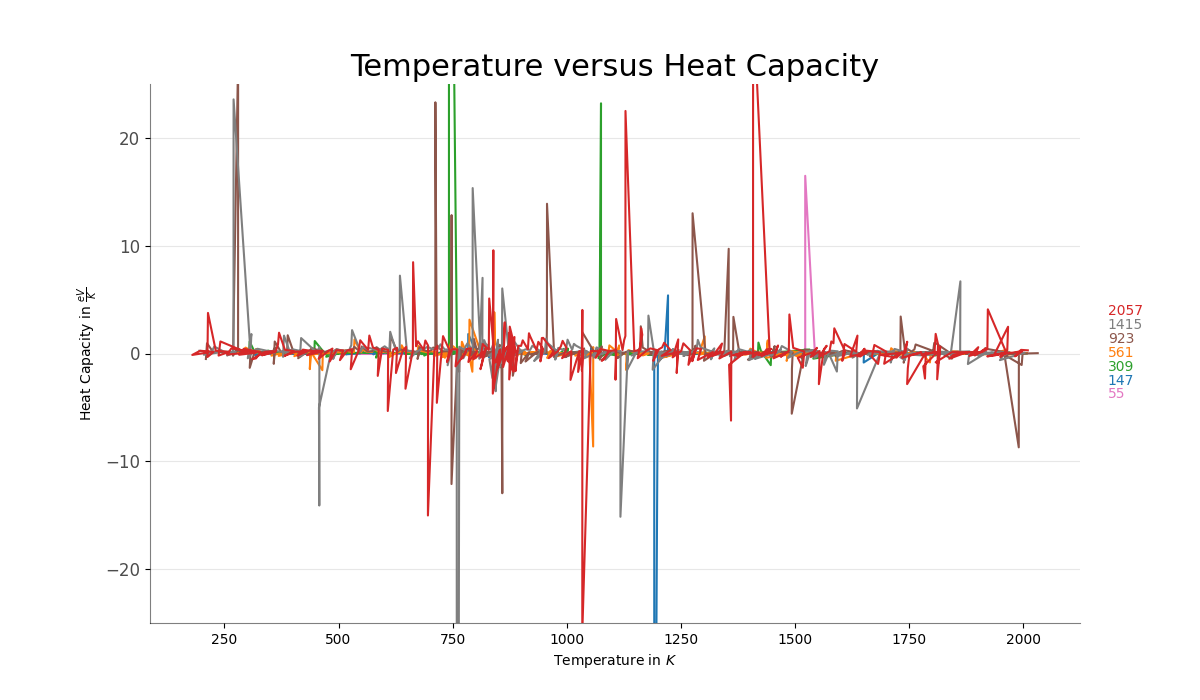
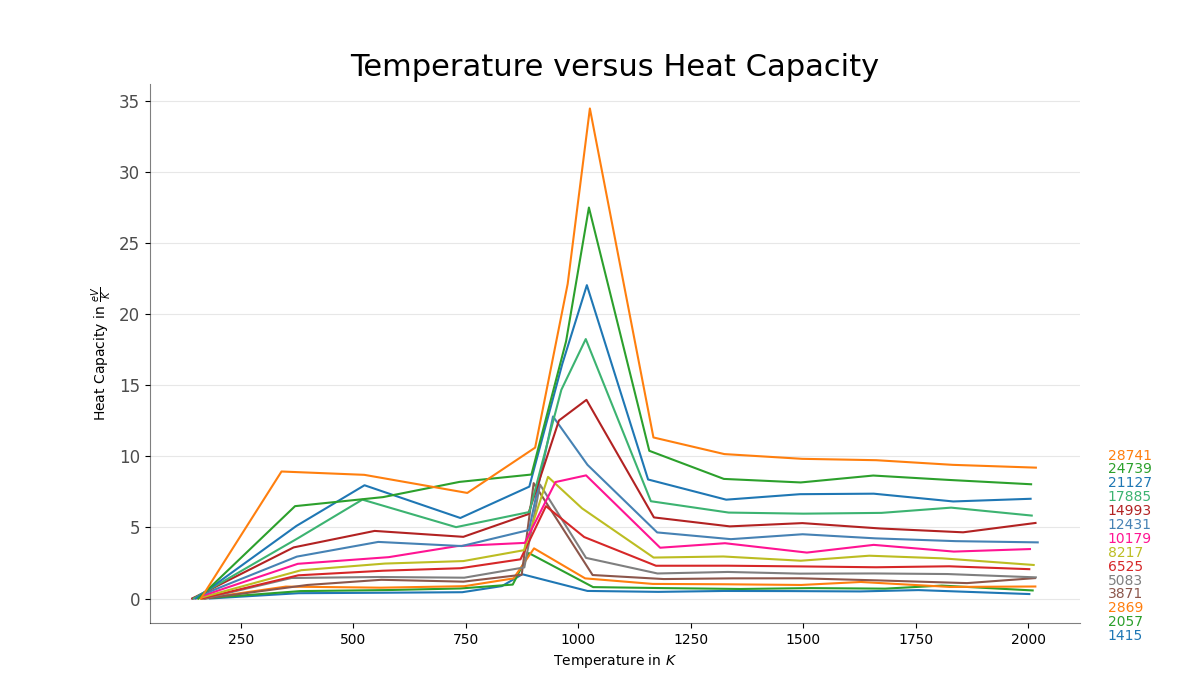
added heat capacity plot

diff --git a/milestones/09/main.cpp b/milestones/09/main.cpp
@@ -29,7 +29,7 @@ void simulate(std::string whisker_name) {
     Atoms atoms = Atoms(Names_t(names), Positions_t(positions));
     std::cout << "num atoms: " << atoms.nb_atoms() << "\n";
 
-    double energy_injection = 0.1; // Unit: eV
+    double energy_injection = 0.0; // Unit: eV
     double mass_gold = 196.97;
     double mass_unit_factor = 103.6;
     double mass = mass_gold * mass_unit_factor;  // unit: g/mol
@@ -42,21 +42,20 @@ void simulate(std::string whisker_name) {
     double whisker_x = atoms.positions.row(0).maxCoeff();
     double whisker_y = atoms.positions.row(1).maxCoeff();
     double whisker_z = atoms.positions.row(2).maxCoeff();
-    double rim = 22;
+    std::cout << "Whisker dimensions: " << whisker_x << ", " << whisker_y << ", " << whisker_z << "\n";
+    double current_z = whisker_z;
+    double z_increment = 5;
+    double rim = 5;
     Domain domain{MPI_COMM_WORLD,
-                  {whisker_x + rim, whisker_y + rim, whisker_z + rim},
+                  {whisker_x + rim, whisker_y + rim, current_z},
                   {1, 1, 1},
                   {1, 1, 1}};
-
-    // Shift positions of atoms, as the center of the read cluster is 0,0,0
-    // atoms.positions += (diameter + rim) / 2;
+    if (rank == 0) std::cout << "Setting domain size to " << whisker_x + rim << ", " << whisker_y + rim << ", " << current_z << "\n";
 
     // Neighbors
     double neighbors_cutoff = 10;
     NeighborList neighbors_list{neighbors_cutoff};
-    std::cout << "init neighbours\n=============================================\n";
     neighbors_list.update(atoms);
-    std::cout << "after neighbours\n=============================================\n";
 
     // Temperature fitter
     double wait_after_energy_injection = 200 * timestep;  // 100fs for timestep 0.5fs
@@ -70,22 +69,31 @@ void simulate(std::string whisker_name) {
     double e_pot_total;
     double energy_total;
 
+    // Initialize IO
     std::ofstream traj;
     std::ofstream energy;
+
+    // Initialize forces
+    double e_pot_local = ducastelle_mp(atoms, neighbors_list, domain.nb_local(), neighbors_cutoff - 0.1);
+
+    // Make domain ready for main loop
+    domain.enable(atoms);
+    domain.scale(atoms, {whisker_x + rim, whisker_y + rim, current_z});
+    if (rank == 0) std::cout << "Scaling to " << whisker_x + rim << ", " << whisker_y + rim << ", " << current_z << "\n";
+    domain.update_ghosts(atoms, 2 * (neighbors_cutoff - 0.1));
+    neighbors_list.update(atoms);
+
+    /*
+    // Write initial state
+     domain.disable(atoms)
     if (rank == 0) {
         traj = std::ofstream(root + "milestones/09/ovito/traj_" + whisker_name + ".xyz");
         energy = std::ofstream(root + "milestones/09/ovito/energy_" + whisker_name + ".csv");
         write_xyz(traj, atoms);
     }
-
-    // Initialize forces
-    double e_pot_local = ducastelle_mp(atoms, neighbors_list, domain.nb_local(), neighbors_cutoff - 1);
-
-    // Make domain ready for main loop
-    domain.enable(atoms);
-
-    domain.update_ghosts(atoms, 2 * (neighbors_cutoff - 1));
+    domain.update_ghosts(atoms, 2 * (neighbors_cutoff - 0.1));
     neighbors_list.update(atoms);
+    */
 
     // Before the actual simulation, run the thermostat
     bool use_thermostat = true;
@@ -93,7 +101,7 @@ void simulate(std::string whisker_name) {
     double thermostat_relaxation_time = 500;
     double thermostat_total_time = 1000;
 
-    // Loop until the system is too hot or the time is up
+    // Main simulation loop
     while (current_time < max_total_time) {
         // Verlet step 1
         Acceleration_t acceleration = atoms.forces / mass;
@@ -101,11 +109,11 @@ void simulate(std::string whisker_name) {
 
         // Exchange information between domains
         domain.exchange_atoms(atoms);
-        domain.update_ghosts(atoms, 2 * (neighbors_cutoff - 1));
+        domain.update_ghosts(atoms, 2 * (neighbors_cutoff - 0.1));
 
         // Update forces
         neighbors_list.update(atoms);
-        e_pot_local = ducastelle_mp(atoms, neighbors_list, domain.nb_local(), neighbors_cutoff - 1);
+        e_pot_local = ducastelle_mp(atoms, neighbors_list, domain.nb_local(), neighbors_cutoff - 0.1);
 
         // Verlet step 2
         acceleration = atoms.forces / mass;
@@ -134,26 +142,28 @@ void simulate(std::string whisker_name) {
                 if (rank == 0) std::cout << "Disabling domains on timestep " << current_time << "/" << max_total_time << "\tAtoms: " << atoms.positions.cols() << "\n";
                 domain.disable(atoms);
                 if (rank == 0) std::cout << "total atoms: " << atoms.positions.cols() << "\n";
-                domain.scale(atoms, {1, 1, 5});
-                std::cout << "scaled domain z to 5\n";
 
                 // Calculate total system temperatures and energies
                 avg_temperature_local /= steps_for_average;
                 avg_temperature_total = MPI::allreduce(avg_temperature_local, MPI_SUM, MPI_COMM_WORLD);
                 e_pot_total = MPI::allreduce(e_pot_local, MPI_SUM, MPI_COMM_WORLD);
                 energy_total = e_pot_total + atoms.e_kin();
-                const double heat_capacity = energy_injection / (avg_temperature_total - last_avg_temperature_total);
 
                 // Write to files
                 if (rank == 0) {
                     write_xyz(traj, atoms);
-                    write_E_T_C(energy, energy_total, avg_temperature_total, heat_capacity);
+                    write_E_T(energy, energy_total, avg_temperature_total);
                     std::cout << current_time << "/" << max_total_time << "\tE_kin: " << atoms.e_kin() << "\tE_pot_total: " << e_pot_total << "\tEnergy: " << energy_total << "\tTotal added energy: " << added_energy_sum << "\tTemperature: " << avg_temperature_total << "\n";
                 }
 
                 // Increment energy
                 atoms.velocities *= std::sqrt(1 + energy_injection / atoms.e_kin());
                 added_energy_sum += energy_injection;
+
+                // Rescaling domains
+                current_z += z_increment;
+                domain.scale(atoms, {whisker_x + rim, whisker_y + rim, current_z});
+                if (rank == 0) std::cout << "Scaling to " << whisker_x + rim << ", " << whisker_y + rim << ", " << current_z << "\n";
 
                 // Reset variables and start domain separation
                 last_avg_temperature_total = avg_temperature_total;
@@ -162,7 +172,7 @@ void simulate(std::string whisker_name) {
                 measurement_time_currently = 0;
 
                 domain.enable(atoms);
-                domain.update_ghosts(atoms, 2 * (neighbors_cutoff - 1));
+                domain.update_ghosts(atoms, 2 * (neighbors_cutoff - 0.1));
                 neighbors_list.update(atoms);
             }
         }

diff --git a/milestones/07/ovito/plot_temperature_vs_heat_capacity.py b/milestones/07/ovito/plot_temperature_vs_heat_capacity.py
@@ -1,41 +1,52 @@
+import numpy as np
 import pandas as pd
 import matplotlib.pyplot as plt
 import matplotx
-import tikzplotlib
 
 # Prepare data
 labels = [r"$E_\mathrm{total}$", r"Temperature}"]
-headers = ["Etotal", "Temperature", "Heat Capacity"]
+headers = ["Etotal", "Temperature"]
+mycolors = ['tab:blue', 'tab:green', 'tab:orange',
+            'tab:brown', 'tab:grey', 'tab:red', 'tab:olive',
+            'deeppink', 'steelblue', 'firebrick', 'mediumseagreen']
 
 # Import Data
 # numbers = ["55"]
-numbers = ["55", "147", "309", "561", "923", "1415", "2057"]
+# numbers = ["55", "147", "309", "561", "923", "1415", "2057"]
 # numbers = ["2869", "3871", "5083", "6525", "8217", "10179", "12431", "14993", "17885", "21127", "24739", "28741"]
 # numbers = ["55", "147", "309", "561", "923", "1415", "2057", "2869", "3871",
 #            "5083", "6525", "8217", "10179", "12431", "14993", "17885",
 #            "21127", "24739", "28741"]
+numbers = ["1415", "2057", "2869", "3871",
+           "5083", "6525", "8217", "10179", "12431", "14993", "17885",
+           "21127", "24739", "28741"]
 
-dfs = [pd.read_csv('energy_' + num + '.csv', header=None, sep="\t") for num in numbers]
+dfs = [pd.read_csv('energy_' + num + '.csv', header=None, usecols=[0, 1], sep="\t") for num in numbers]
 for df in dfs:
     df.columns = headers
 
-# Set first element to 0
-for df in dfs:
-    df.iat[0, 2] = None
-
-# Draw Plot
-mycolors = ['tab:pink', 'tab:blue', 'tab:green', 'tab:orange',
-            'tab:brown', 'tab:grey', 'tab:red', 'tab:olive',
-            'deeppink', 'steelblue', 'firebrick', 'mediumseagreen']
-
-plt.figure(figsize=(12, 7), dpi=100)
-
+# Calculate Heat Capacities
+dfs_heat_capacities = []
 for i, df in enumerate(dfs):
-    plt.plot(df[headers[1]], df[headers[2]], "o", markersize=2, color=mycolors[i % len(mycolors)], label=numbers[i])
-    # plt.text(df[headers[2]].iloc[-1], max(df[headers[2]]) + 50, numbers[i], horizontalalignment='center', color=mycolors[i % len(mycolors)])
+    heat_capacities = []
+    total_energy_diff = max(df[headers[0]]) - min(df[headers[0]])
+    energy0, energy1 = 0, 0
+    temperature0, temperature1 = 0, 0
+
+    for p in np.linspace(0, len(df) - 1,  13, dtype=int):
+        energy1, temperature1 = df[headers[0]].iloc[p], df[headers[1]].iloc[p]
+        heat_capacity = (energy1 - energy0) / (temperature1 - temperature0)
+        heat_capacities.append((temperature1, heat_capacity))
+        energy0, temperature0 = energy1, temperature1
+    dfs_heat_capacities.append(heat_capacities)
+
+# Plot
+plt.figure(figsize=(12, 7), dpi=100)
+for i, df in enumerate(dfs):
+    t, hc = zip(*dfs_heat_capacities[i])
+    plt.plot(t, hc, color=mycolors[i % len(mycolors)], label=numbers[i])
 
 # Decoration
-plt.ylim(-25, 25)
 plt.xlabel(r'Temperature in $K$')
 plt.ylabel(r'Heat Capacity in $\frac{eV}{K}$')
 plt.yticks(fontsize=12, alpha=.7)
@@ -52,7 +63,6 @@ plt.gca().spines["right"].set_alpha(0.0)
 plt.gca().spines["left"].set_alpha(0.5)
 
 path = r"T_vs_C"
-# tikzplotlib.save(path + ".tex")
 plt.savefig(path + ".png")
 
 plt.show()  # clears the plot

diff --git a/milestones/07/main.cpp b/milestones/07/main.cpp
@@ -93,11 +93,10 @@ void simulate(int cluster_num, double max_temperature, double energy_injection) 
             else if (measurement_time_currently >= measurement_time) {
                 // Calculate temperature
                 average_temperature /= steps_for_average;
-                const double heat_capacity = energy_injection / (average_temperature - last_avg_temperature);
 
                 // Write to files
                 write_xyz(traj, atoms);
-                write_E_T_C(energy, added_energy_sum, average_temperature, heat_capacity);
+                write_E_T(energy, added_energy_sum, average_temperature);
                 std::cout << current_time << "/" << total_time << "\tEnergy: " << e_pot + atoms.e_kin() << "\tTotal added energy: " << added_energy_sum << "\tTemperature: " << average_temperature << "\n";
 
                 // Increment energy

diff --git a/milestones/08/main.cpp b/milestones/08/main.cpp
@@ -139,7 +139,7 @@ void simulate(int cluster_num, double max_temperature, double energy_injection) 
                 // Write to files
                 if (rank == 0) {
                     write_xyz(traj, atoms);
-                    write_E_T_C(energy, energy_total, avg_temperature_total, energy_injection / (avg_temperature_total - last_avg_temperature_total));
+                    write_E_T(energy, energy_total, avg_temperature_total);
                     std::cout << current_time << "/" << max_total_time << "\tE_kin: " << atoms.e_kin() << "\tE_pot_total: " << e_pot_total << "\tEnergy: " << energy_total << "\tTotal added energy: " << added_energy_sum << "\tTemperature: " << avg_temperature_total << "\n";
                 }
 

diff --git a/src/write_file.cpp b/src/write_file.cpp
@@ -13,10 +13,6 @@ void write_E_T(std::ofstream &file, double etotal, double tmp) {
     file << etotal << "\t" << tmp << "\n";
 }
 
-void write_E_T_C(std::ofstream &file, double etotal, double tmp, double heat_capacity) {
-    file << etotal << "\t" << tmp << "\t" << heat_capacity << "\n";
-}
-
 void write_lattice_cube(const std::string &filename, int n, double lattice_const_epsilon) {
     std::ofstream file(filename);
     int cube_root_n = std::floor(cbrt(n));

diff --git a/src/write_file.h b/src/write_file.h
@@ -11,8 +11,6 @@ void write_energy(std::ofstream &file, double epot, double ekin, double temperat
 
 void write_E_T(std::ofstream &file, double etotal, double tmp);
 
-void write_E_T_C(std::ofstream &file, double etotal, double tmp, double heat_capacity);
-
 void write_lattice_cube(const std::string &filename, int n, double lattice_const_epsilon);
 
 #endif // MY_MD_CODE_WRITE_FILE_H
